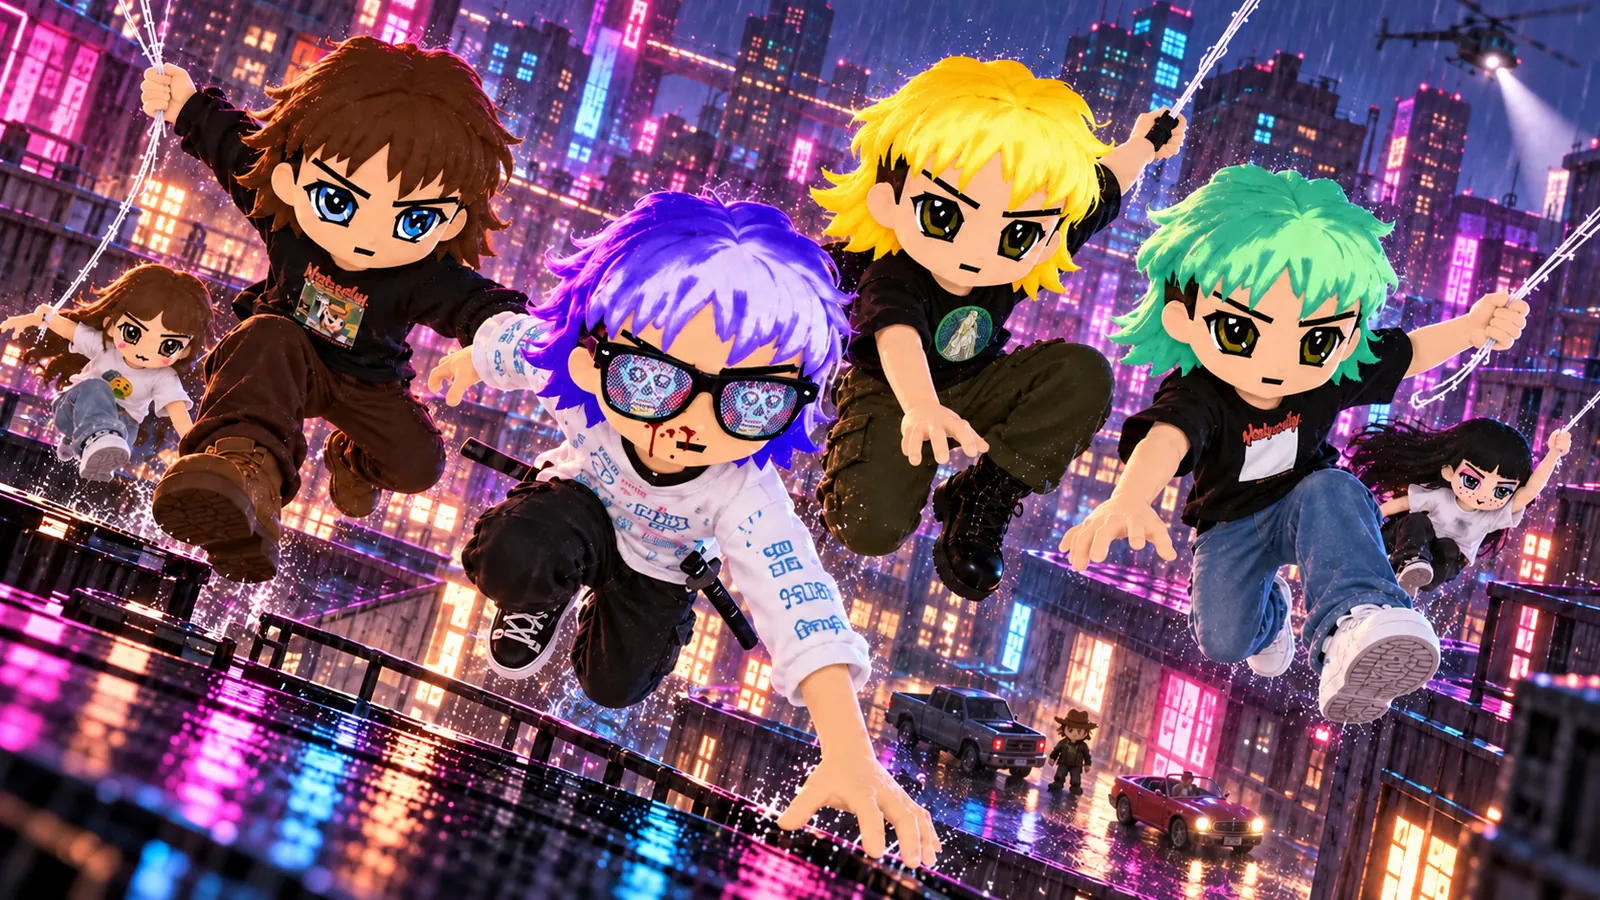
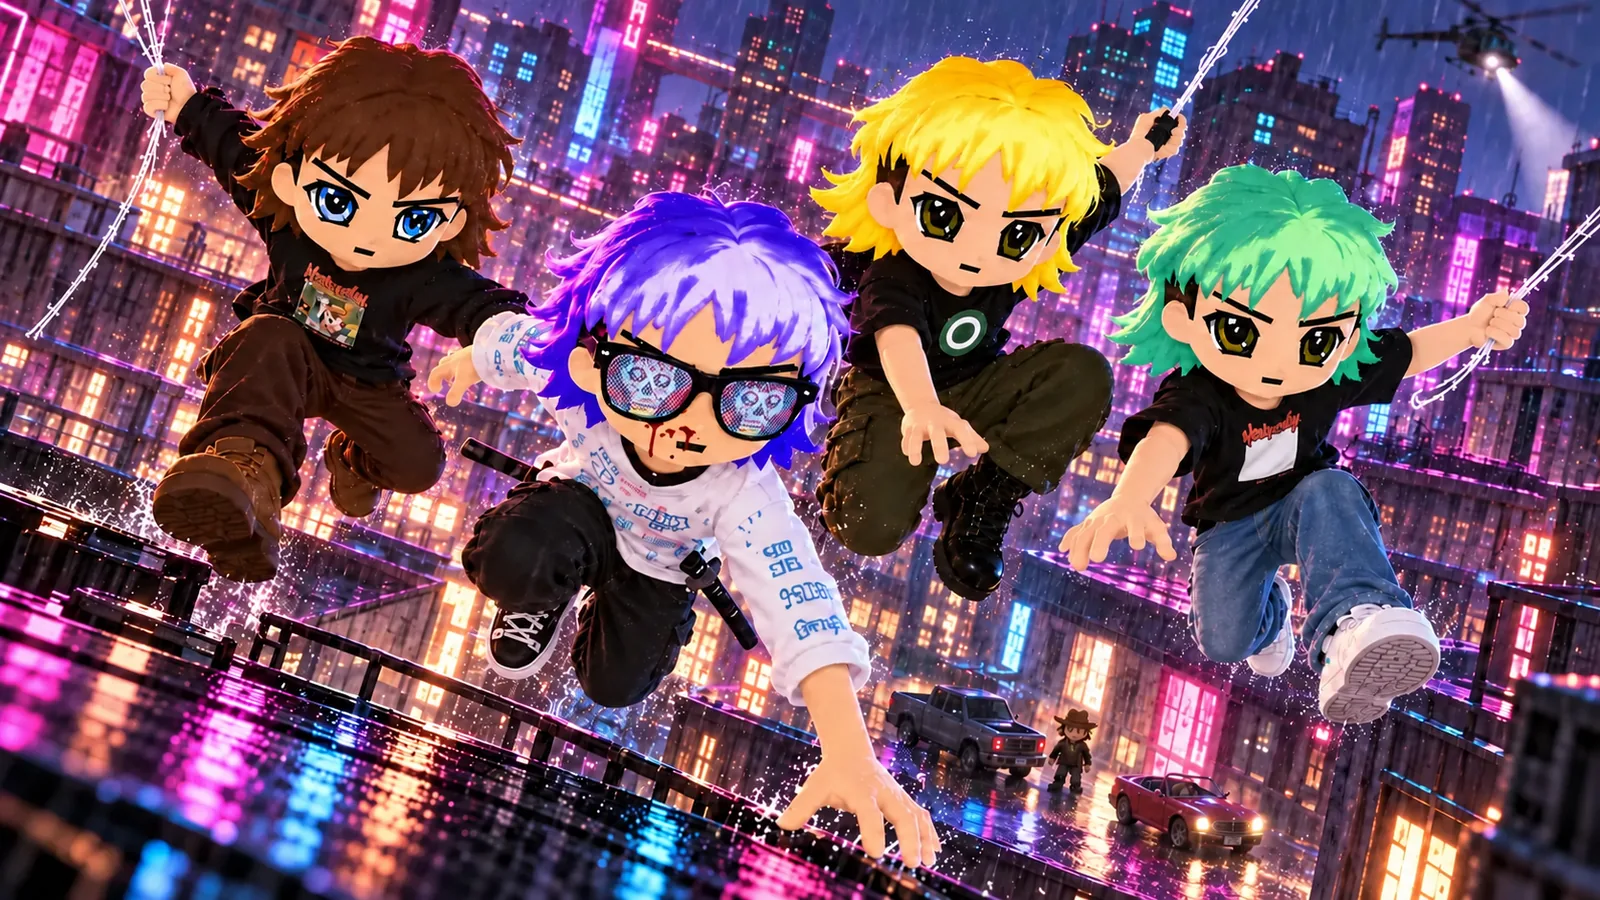
SPIDERTAG card art: just the Radbros

diff --git a/src/projects.js b/src/projects.js
@@ -84,7 +84,7 @@ export const projects = [
       src: '/img/art/radrun-cast2.webp',
       width: 1600,
       height: 900,
-      alt: 'SPIDERTAG: violet-haired #4764, brown-haired #652, yellow-haired #3704 and green-haired #3710 swing over neon rooftops, with #555 and #85 behind them, a roadster and the cowboy\'s truck below.',
+      alt: 'SPIDERTAG: violet-haired #4764, brown-haired #652, yellow-haired #3704 and green-haired #3710 swing over neon rooftops, with a roadster and cowboy #723 by his truck below.',
     },
     credit: {
       before: 'Built on',
